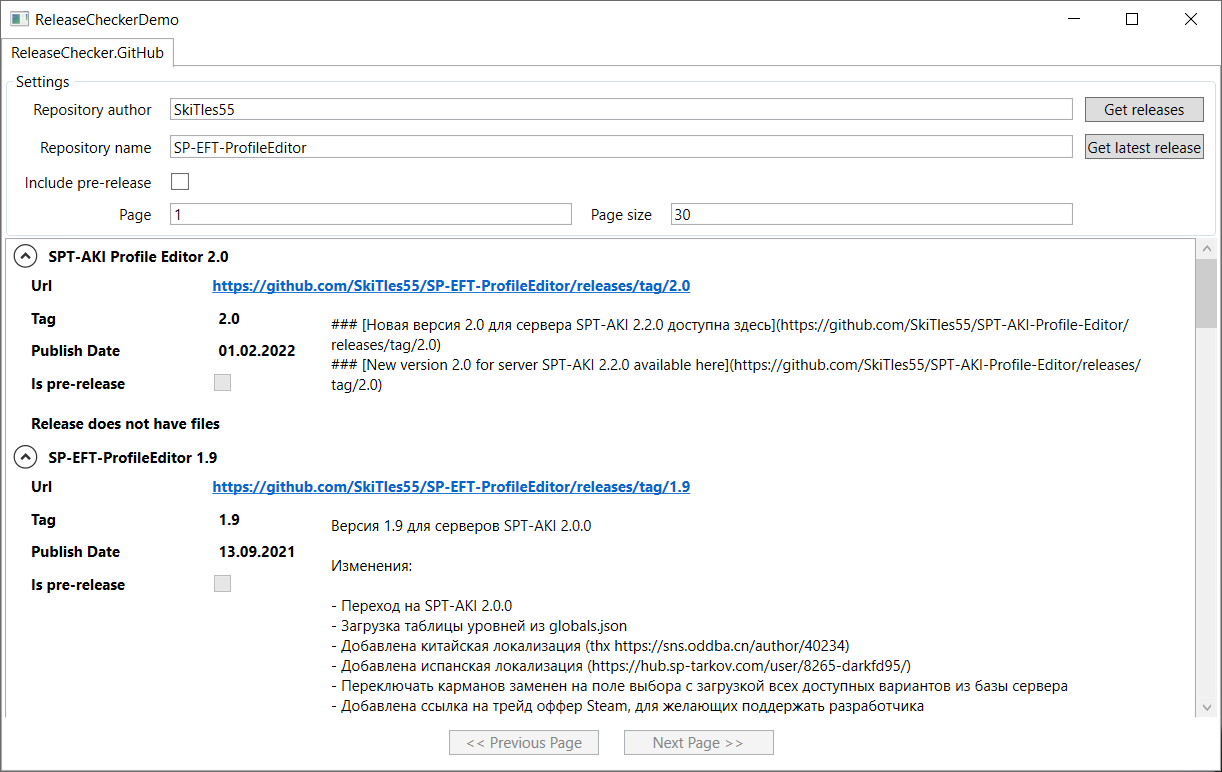
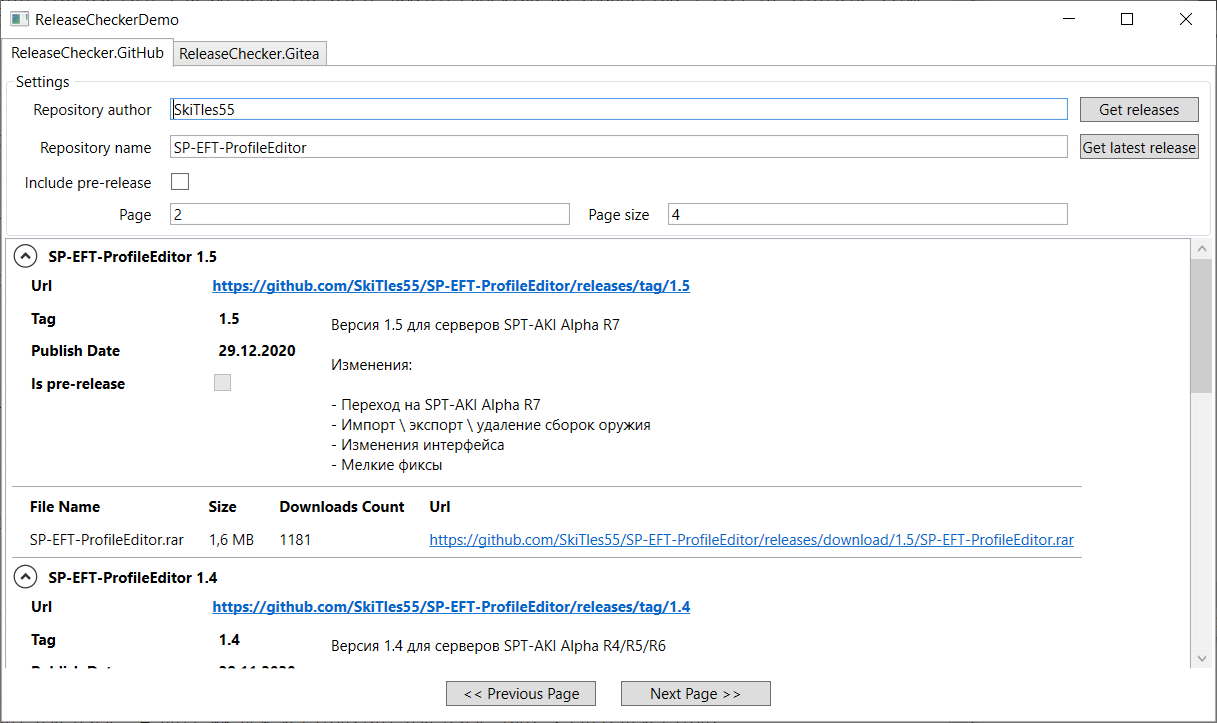
readme update

diff --git a/README.md b/README.md
@@ -27,6 +27,30 @@ GitHubChecker gitHubChecker = new GitHubChecker("RepoAuthor", "RepoName");
 var release = await gitHubChecker.GetReleasesAsync(pageNumber, pageSize, includePreReleases);
 ```
 
+## ReleaseChecker.Gitea
+![GitHub Workflow Status](https://img.shields.io/github/workflow/status/SkiTles55/ReleaseChecker/publish-ReleaseChecker-Gitea)
+![Nuget](https://img.shields.io/nuget/dt/ReleaseChecker.Gitea)
+![GitHub](https://img.shields.io/github/license/SkiTles55/ReleaseChecker)
+![Nuget](https://img.shields.io/nuget/v/ReleaseChecker.Gitea)
+
+Простая библиотека, которую можно использовать для базовой проверки обновлений, запрашивая список релизов из репозиториев Gitea.
+
+Пример использования:
+
+```csharp
+// Получение последнего релиза и сравнение версии с текущей версией приложения
+GiteaChecker giteaChecker = new GiteaChecker("ServerUrl", "RepoAuthor", "RepoName");
+var currentVersion = Assembly.GetExecutingAssembly().GetName().Version;
+var latestRelease = await giteaChecker.GetLatestReleaseAsync();
+if (latestRelease != null && new Version(latestRelease.Tag) > currentVersion)
+  ShowUpdateAvailableDialog();
+
+// Получение списка релизов
+GiteaChecker giteaChecker = new GiteaChecker("ServerUrl", "RepoAuthor", "RepoName");
+var release = await giteaChecker.GetReleasesAsync(pageNumber, pageSize, includePreReleases);
+```
+
 ## ReleaseChecker.Demo
 Демо проект показывающий все возможности библиотек
 ![ReleaseChecker.Demo](/Screenshots/demo.github.png?raw=true)
+![ReleaseChecker.Demo](/Screenshots/demo.gitea.png?raw=true)

diff --git a/ENGREADME.MD b/ENGREADME.MD
@@ -27,6 +27,30 @@ GitHubChecker gitHubChecker = new GitHubChecker("RepoAuthor", "RepoName");
 var release = await gitHubChecker.GetReleasesAsync(pageNumber, pageSize, includePreReleases);
 ```
 
+## ReleaseChecker.Gitea
+![GitHub Workflow Status](https://img.shields.io/github/workflow/status/SkiTles55/ReleaseChecker/publish-ReleaseChecker-Gitea)
+![Nuget](https://img.shields.io/nuget/dt/ReleaseChecker.Gitea)
+![GitHub](https://img.shields.io/github/license/SkiTles55/ReleaseChecker)
+![Nuget](https://img.shields.io/nuget/v/ReleaseChecker.Gitea)
+
+A simple library that can be used for basic update checking by requesting a list of releases from Gitea repositories.
+
+Usage example:
+
+```csharp
+// Getting the latest release and comparing the version with the current version of the application
+GiteaChecker giteaChecker = new GiteaChecker("ServerUrl", "RepoAuthor", "RepoName");
+var currentVersion = Assembly.GetExecutingAssembly().GetName().Version;
+var latestRelease = await giteaChecker.GetLatestReleaseAsync();
+if (latestRelease != null && new Version(latestRelease.Tag) > currentVersion)
+  ShowUpdateAvailableDialog();
+
+// Getting a list of releases
+GiteaChecker giteaChecker = new GiteaChecker("ServerUrl", "RepoAuthor", "RepoName");
+var release = await giteaChecker.GetReleasesAsync(pageNumber, pageSize, includePreReleases);
+```
+
 ## ReleaseChecker.Demo
 Demo project showing all the features of the libraries
 ![ReleaseChecker.Demo](/Screenshots/demo.github.png?raw=true)
+![ReleaseChecker.Demo](/Screenshots/demo.gitea.png?raw=true)
